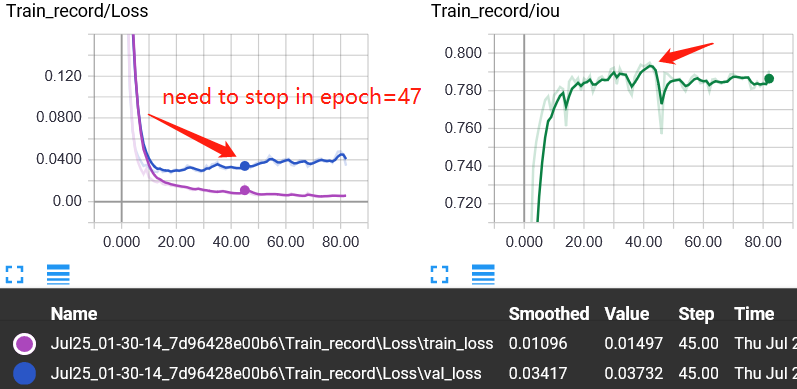
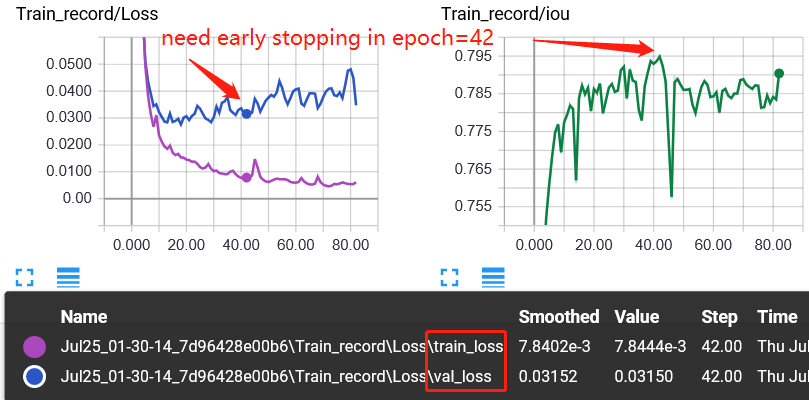
new score

Changed region(s): [[0.0, 0.0, 1.0, 0.6478], [0.0, 0.6478, 1.0, 1.0], [0.7528, 0.9254, 1.0, 0.9871]]

diff --git a/README.md b/README.md
@@ -30,7 +30,7 @@ run `python demo.py`
 ![score1.png](https://github.com/hikaruzzz/instance-semantic-segmentation-pytorch/blob/master/score/score1.png)  
 ![score2.png](https://github.com/hikaruzzz/instance-semantic-segmentation-pytorch/blob/master/score/score2.png)
 ![score3.png](https://github.com/hikaruzzz/instance-semantic-segmentation-pytorch/blob/master/score/score3.png)
-* The fig4 is the trend of Loss and mIoU within 100 epochs. We can see that after 47epochs the train_loss still decrease but val_loss begin increase, this would lead to overfitting, need to early stopping in this epoch.
+* The fig4 is the trend of Loss and mIoU within 100 epochs. We can see that after 42epochs(got best mIoU) the train_loss still decrease but val_loss begin increase, this would lead to overfitting, need to early stopping in this epoch.
 ![loss1.png](https://github.com/hikaruzzz/instance-semantic-segmentation-pytorch/blob/master/score/loss1.png)
 ## Conclusion
 * The different class group may result in different accuracy, for example, person class and sky class fuse together may lead to stop reducing of Loss, and mIoU will stay in a level no matter how epochs train.Just like the fig5 show.  
